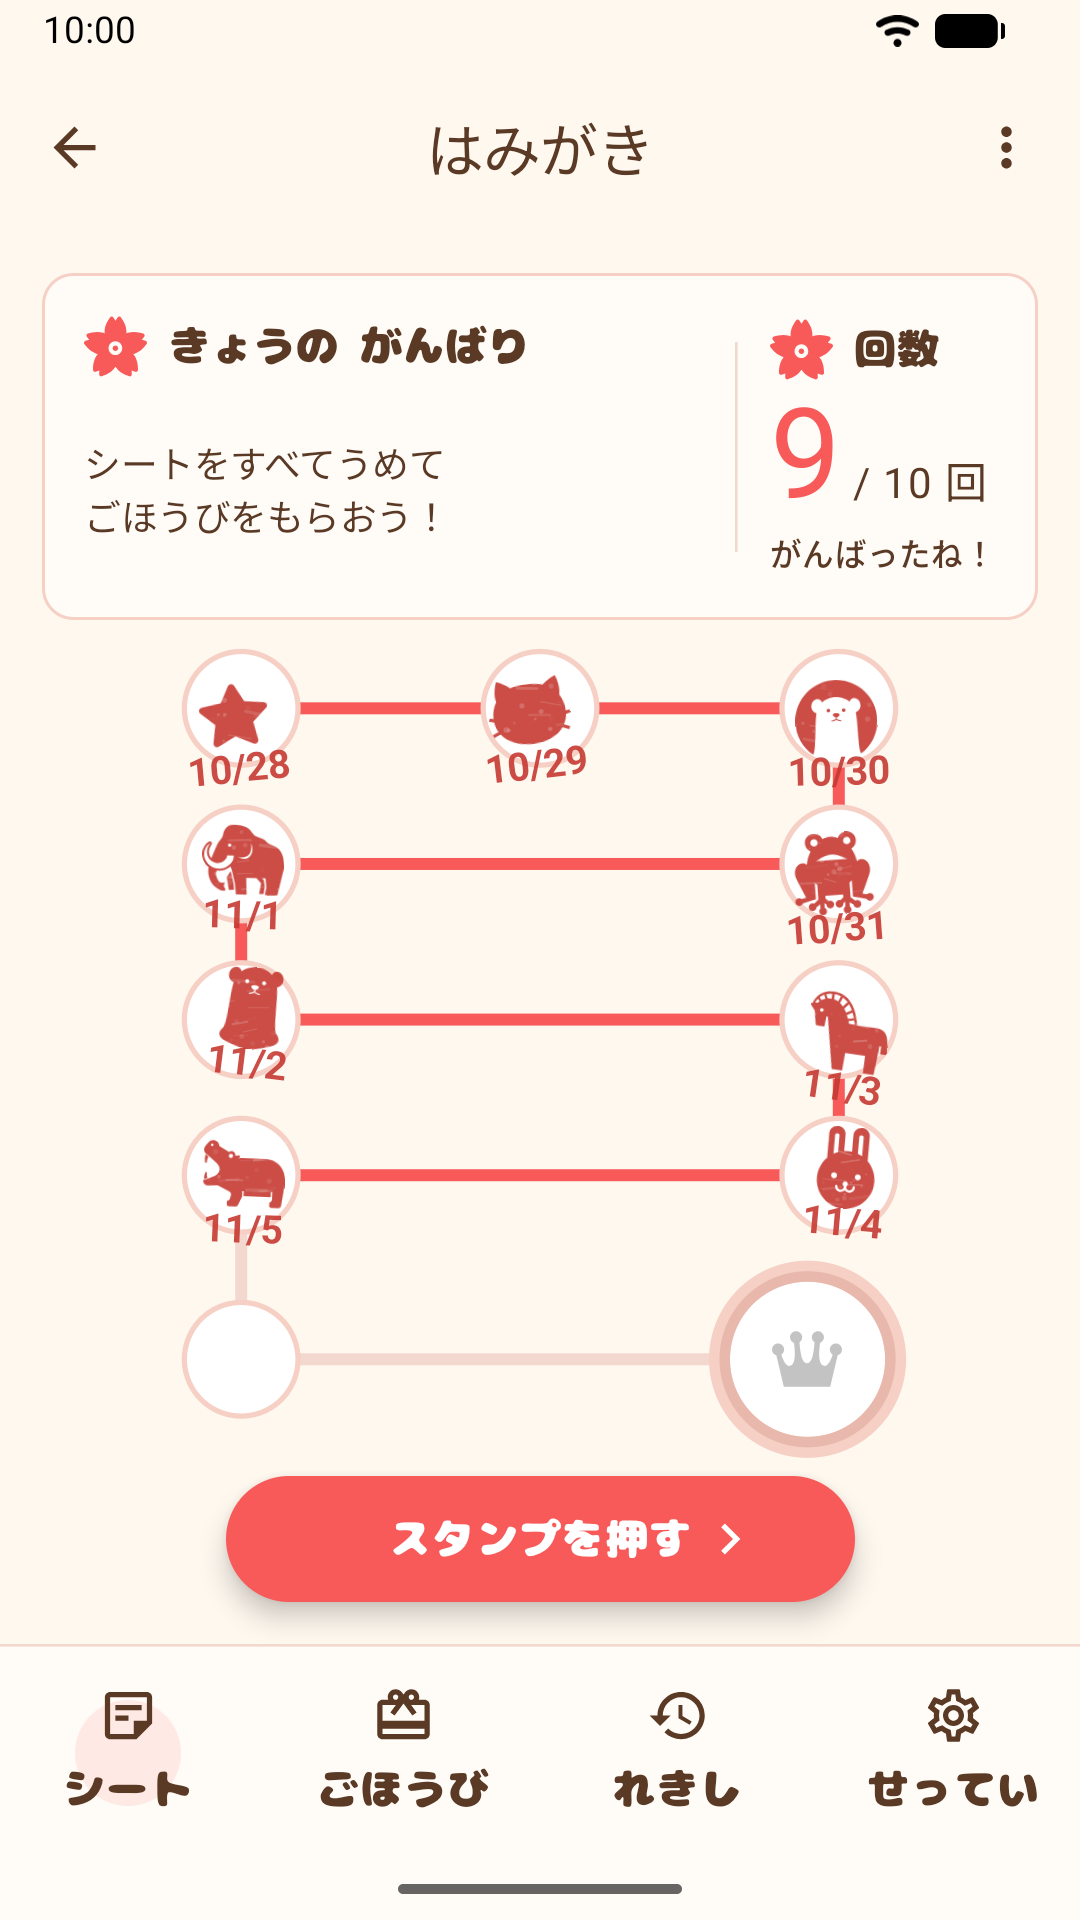
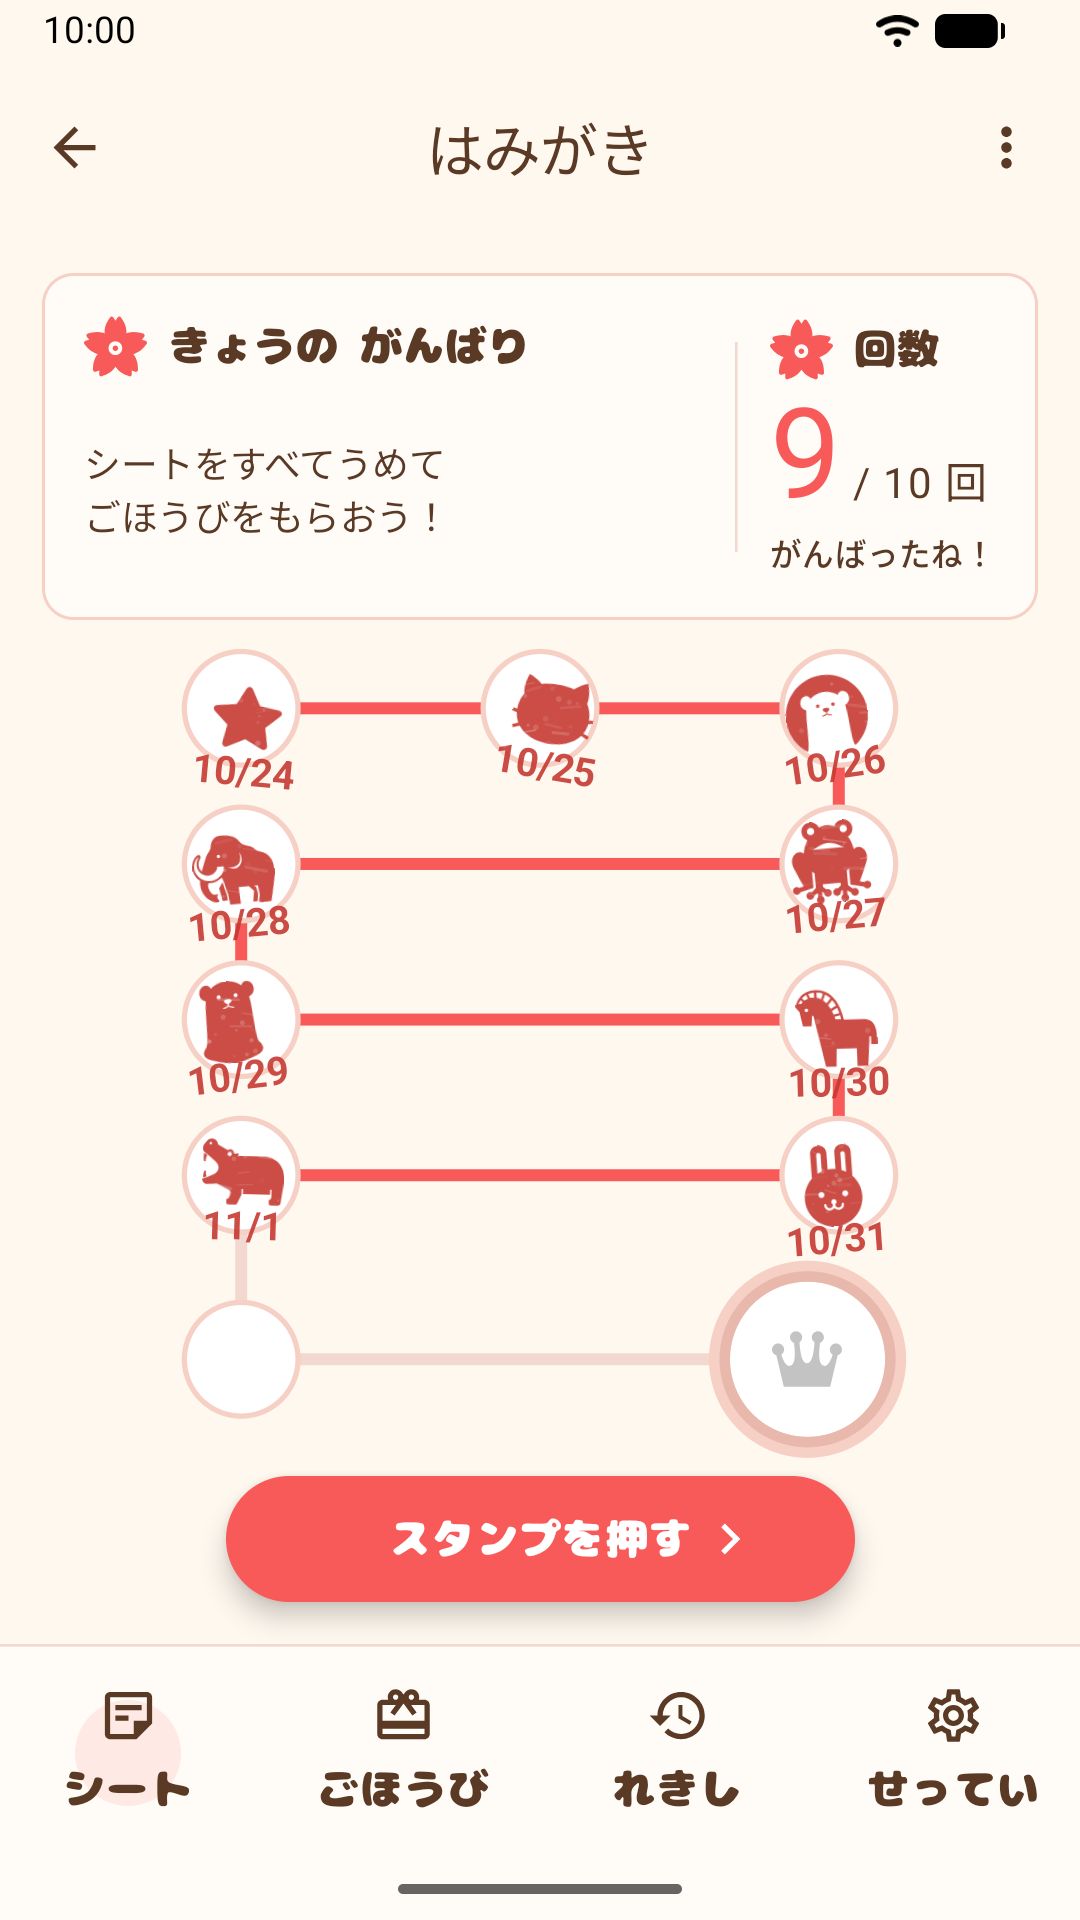
docs: retake screenshots with the fixed date and goal stamp

Changed region(s): [[0.7333, 0.3438, 0.825, 0.6562], [0.1833, 0.3438, 0.275, 0.6562], [0.4583, 0.3438, 0.55, 0.4062]]

diff --git a/docs/development.md b/docs/development.md
@@ -95,11 +95,11 @@ tools/screenshots/take.sh            # docs/screenshots を置き換える。引
 
 1. デバッグ版とテストを入れ、アプリのデータを消す。
 2. 画面の大きさを 1080×1920（Google Play に載せられる 9:16）にし、ステータスバーをデモモードにする（10:00・Wi-Fi・電池満タン・通知なし）。終わったら戻す。
-3. `ScreenshotTour`（[app/src/androidTest/.../screenshots/](../app/src/androidTest/java/com/cheesecomer/rewardstamp/screenshots/)）が `ShowcaseData` のデータを入れ、画面を巡って撮る。日付は撮った日から数えるので、いつ撮っても最近のきろくに見える。
+3. `ScreenshotTour`（[app/src/androidTest/.../screenshots/](../app/src/androidTest/java/com/cheesecomer/rewardstamp/screenshots/)）が `ShowcaseData` のデータを入れ、画面を巡って撮る。アプリの日付（2026/11/1）と乱数を固定するので、何度撮っても同じ画面になる。
 
 - 端末は `ANDROID_SERIAL` で選べます（既定は最初の Android Emulator）。アプリのデータを消すので、実機では動かしません。
 - 画面を変えて操作の手順が合わなくなると失敗し、`docs/screenshots` は変えずに、撮れた分と失敗したときの画面（`failed.png`）を `build/screenshots` に残します。`ScreenshotTour` の手順を直します。
-- ゴールの演出は時間で進むので、テストの時計（`mainClock`）を止めて、ゴールのスタンプが出たところで撮ります。ゴールのスタンプはランダムなので、撮るたびに変わります。
+- ゴールの演出は時間で進むので、テストの時計（`mainClock`）を止めて、ゴールのスタンプが出たところで撮ります。ゴールのスタンプは `SEED` で変えられます（`SEED=3 tools/screenshots/take.sh`）。紙吹雪は乱数を固定できないので、スクリーンショットでは出しません。
 - `ScreenshotTour` は `-e screenshots true` を付けたときだけ動き、通常の `connectedDebugAndroidTest` では飛ばします。
 
 ## CI
